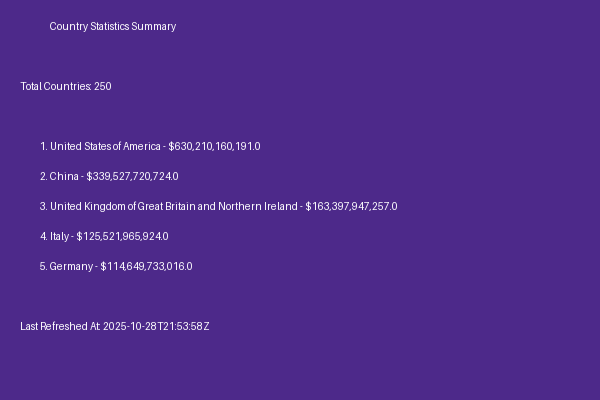
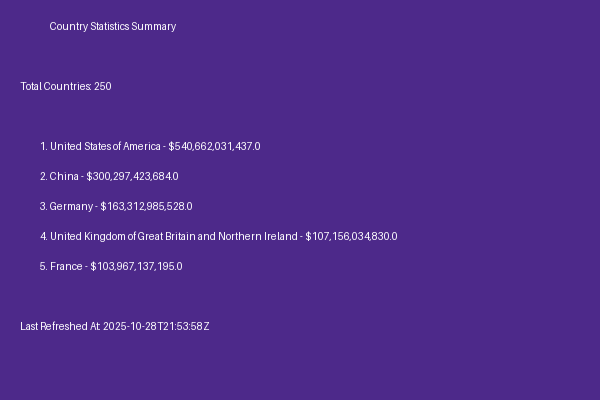
Change image generator to two decimal places

diff --git a/api/utils/image_generator.py b/api/utils/image_generator.py
@@ -25,7 +25,7 @@ def generate_image(data):
     # Draw top 5 countries by GDP
     y_position = 140
     for i, country in enumerate(data['top_countries_by_gdp'], 1):
-        gdp_formatted = f"${country['estimated_gdp']:,.1f}" if country['estimated_gdp'] else "N/A"
+        gdp_formatted = f"${country['estimated_gdp']:,.2f}" if country['estimated_gdp'] else "N/A"
         text = f"{i}. {country['name']} - {gdp_formatted}"
         draw.text((40, y_position), text, fill='white', font=font_text)
         y_position += 30
